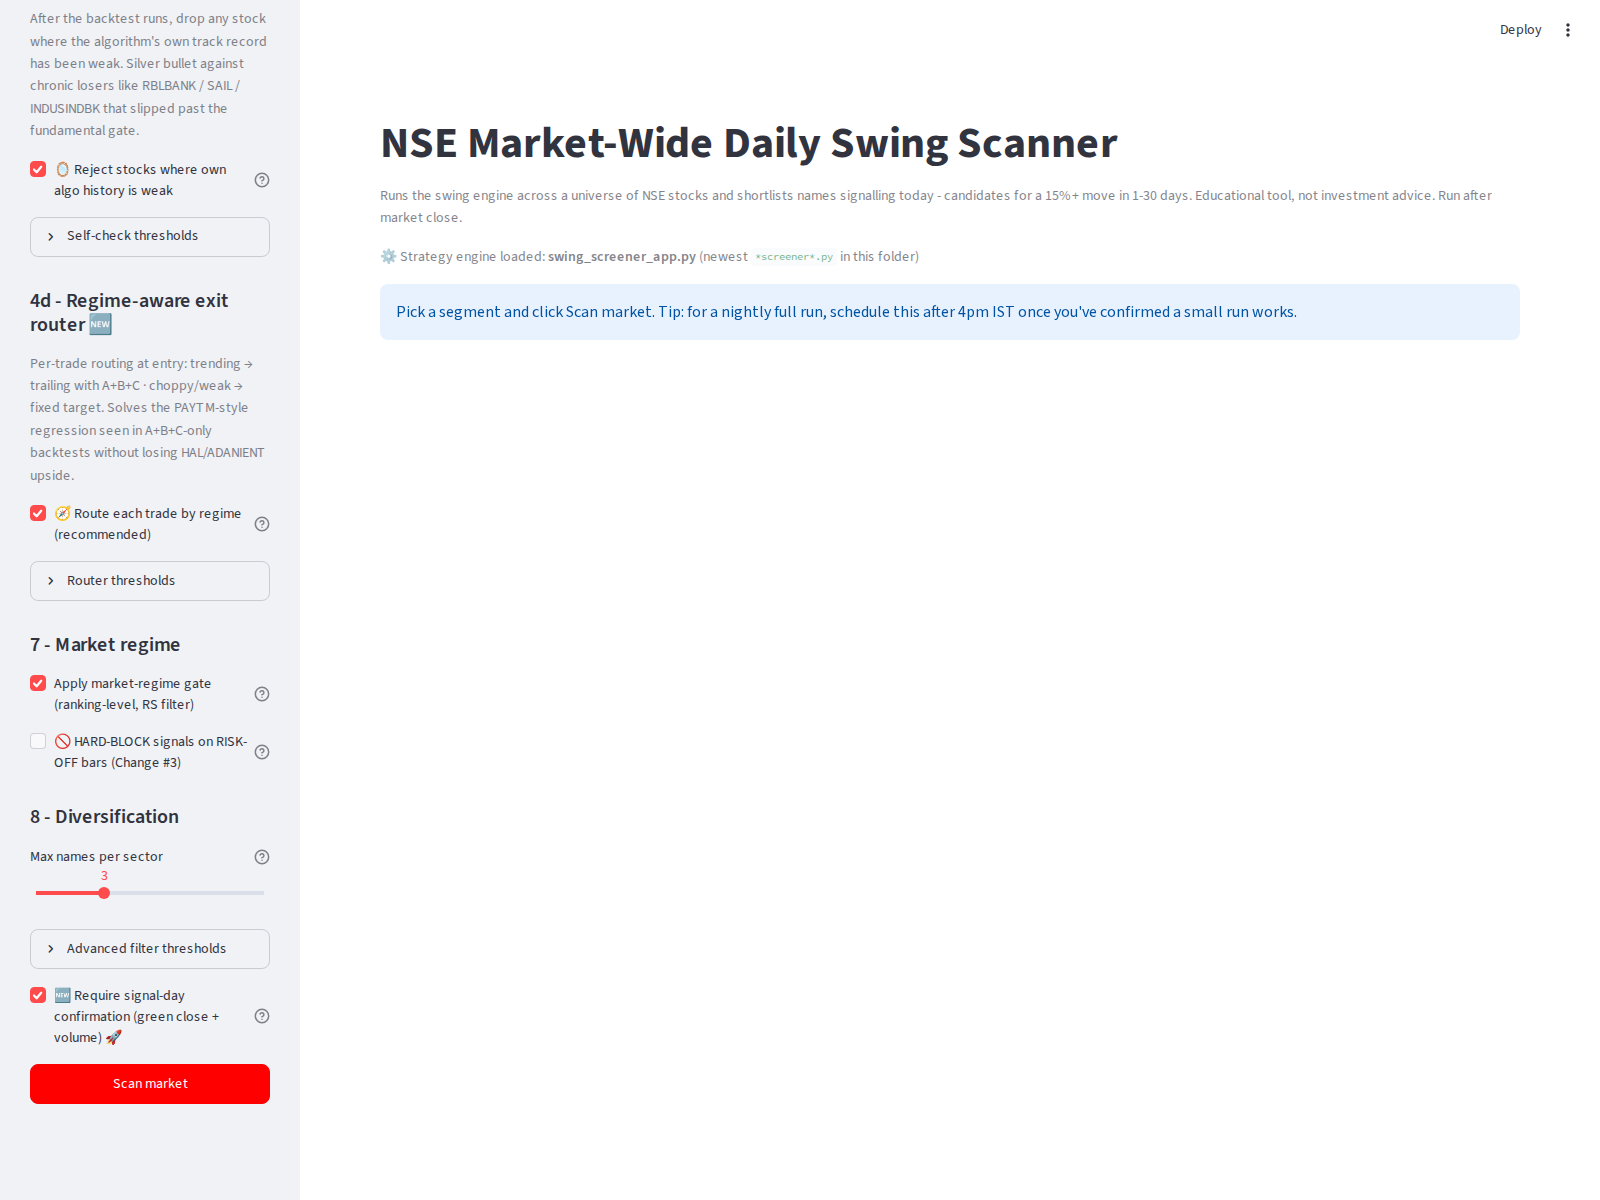
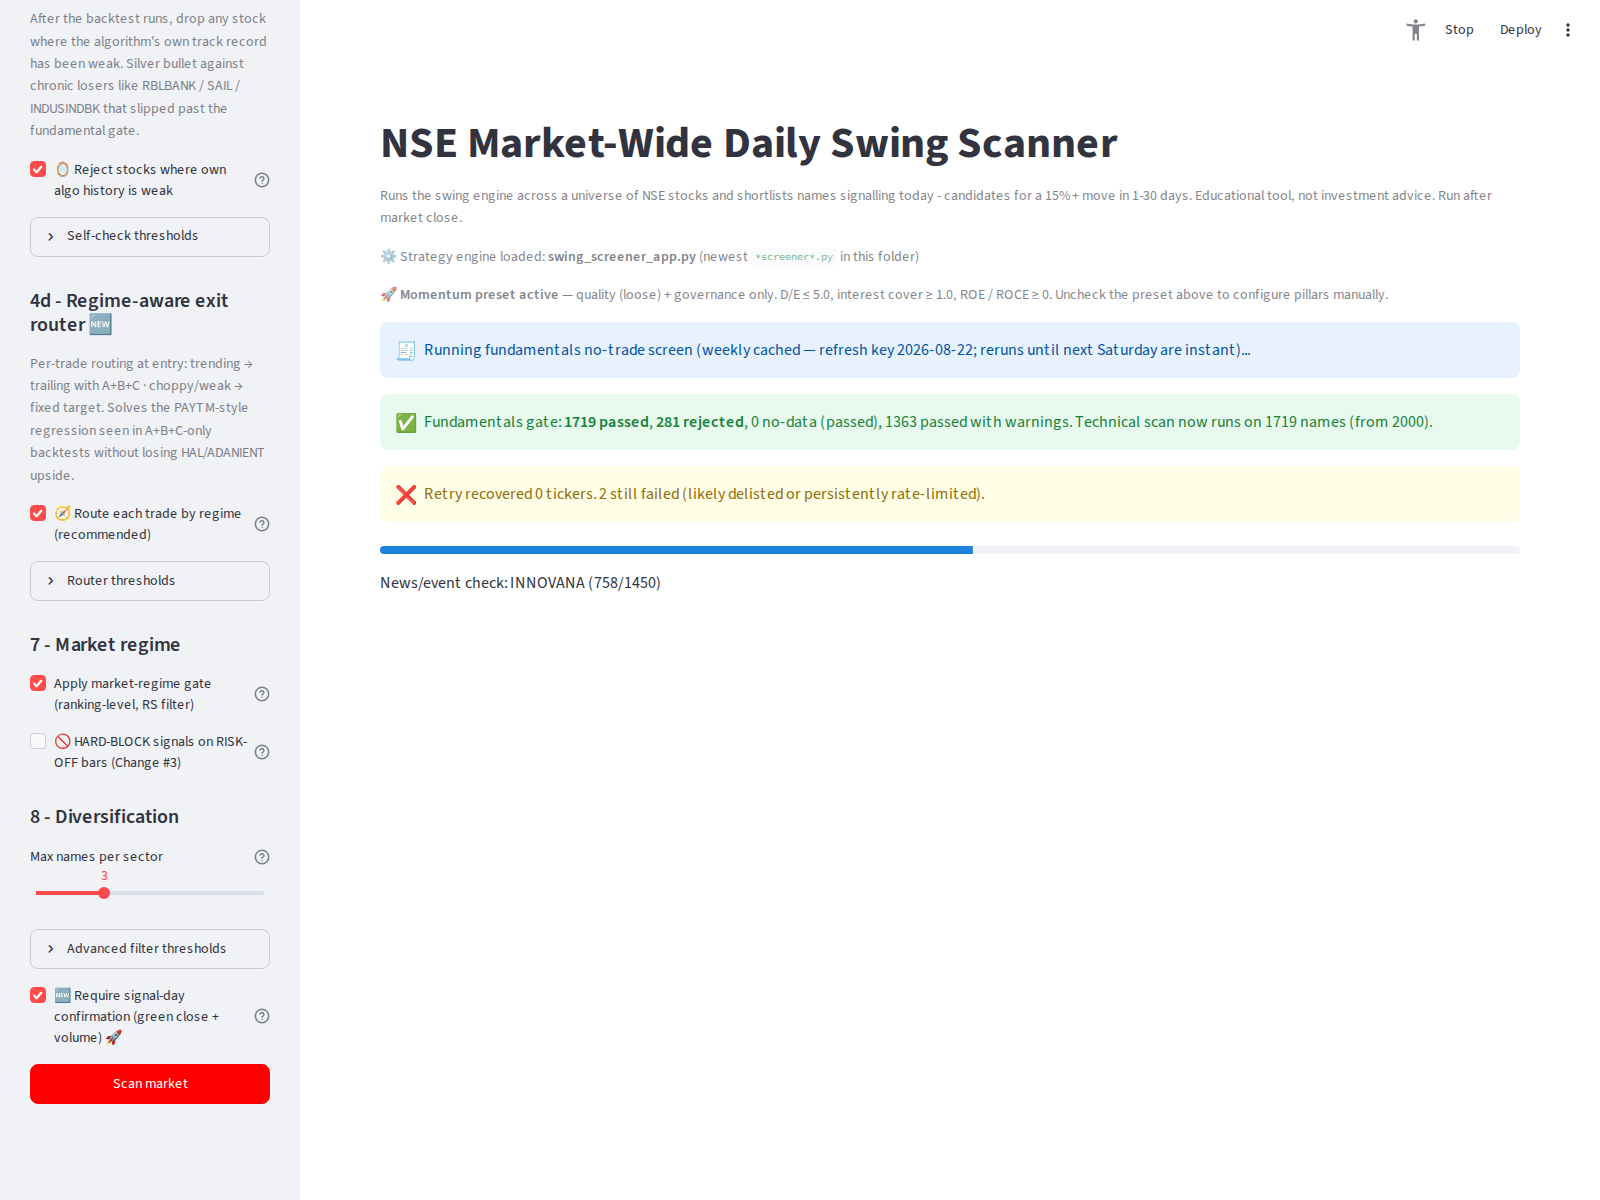
"26/08/2026"

Changed region(s): [[0.25, 0.2467, 0.8125, 0.3083], [0.25, 0.4008, 0.625, 0.4933], [0.25, 0.3392, 0.9062, 0.37]]

diff --git a/scan_workflow_monitor.py b/scan_workflow_monitor.py
@@ -212,7 +212,7 @@ class WorkflowConfig:
 
     headless: bool = True
 
-    scan_timeout_seconds: int = 9000
+    scan_timeout_seconds: int = 12000
 
     keep_server_running: bool = False
 
@@ -4774,7 +4774,7 @@ def parse_arguments(
         "--timeout",
         dest="scan_timeout_seconds",
         type=int,
-        default=9000,
+        default=12000,
         help=(
             "Maximum seconds to wait for scan completion."
         ),
